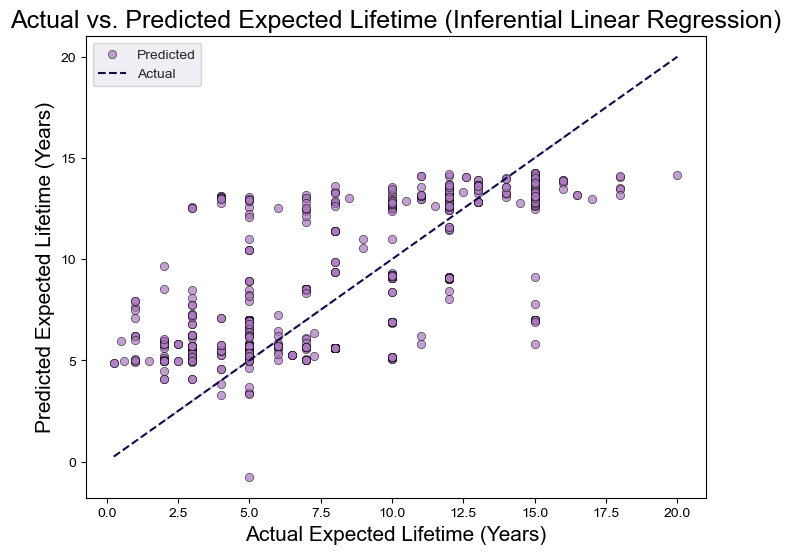
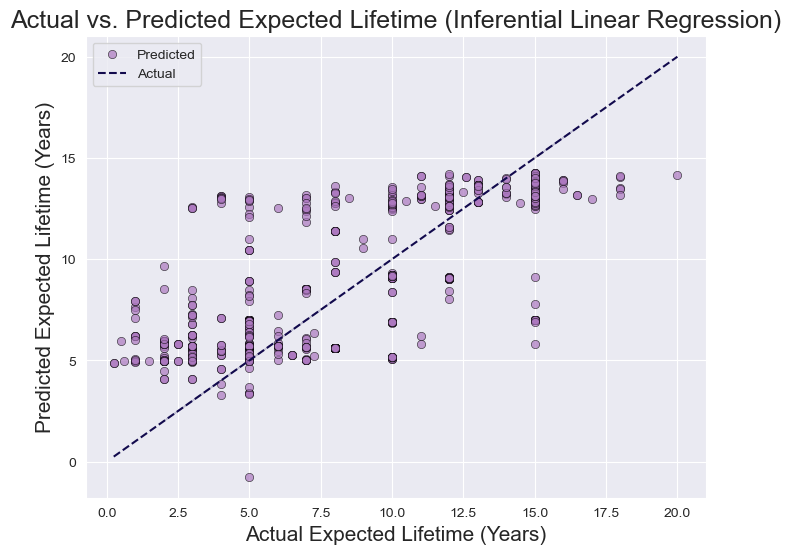
added new functions and updated all docstrings to be more concise

diff --git a/src/final.py b/src/final.py
@@ -3,22 +3,43 @@ from sklearn.preprocessing import StandardScaler
 import statsmodels.api as sm
 import seaborn as sns
 import matplotlib.pyplot as plt
+from scipy.stats import f_oneway
+from statsmodels.stats.multicomp import MultiComparison
+
 
 sat_df = pd.read_csv('/Users/joshy/Desktop/dai/daimil5/projects/final/'
                      'active_satellites/data/database.csv')
 
 
 def drop_na(sat_df):
-    ''' Function takes in a dataframe
-        Returns a dataframe that drops duplicates for relevant columns '''
+    """
+    Drop rows with missing values in specific columns from a DataFrame.
+
+    Parameters:
+    - sat_df (DataFrame): Input DataFrame containing satellite data.
+
+    Returns:
+    - cleaned_df (DataFrame): DataFrame with rows containing missing values
+      removed.
+    """
     sat_df.dropna(subset=["Expected Lifetime (Years)",
                           "Launch Mass (Kilograms)"], inplace=True)
     return sat_df
 
 
 def remove_extra_letters(col):
-    ''' Function takes in a df column
-        Function returns the string with extra letters removed '''
+    """
+    Remove extra letters and symbols from a DataFrame column containing
+      time-related values.
+
+    Parameters:
+    - col (Series): A pandas Series representing the column with time-related
+      values.
+
+    Returns:
+    - cleaned_col (Series): A pandas Series with extra letters and symbols
+      removed.
+    """
     return col.replace(' yr.', '') \
               .replace(' hrs.', '') \
               .replace(' trs', '') \
@@ -27,8 +48,18 @@ def remove_extra_letters(col):
 
 
 def convert_range_to_mean(col):
-    ''' Function takes in a df column
-        Function returns the string with extra letters removed '''
+    """
+    Convert a range-formatted value or single value in the DataFrame column to
+      its mean value.
+
+    Parameters:
+    - col (Series): A pandas Series representing the column with
+      range-formatted or single values.
+
+    Returns:
+    - mean_value (float): The mean value derived from the range or single
+      value.
+    """
     if '-' in col:
         low, high = col.split('-')
         return (float(low) + float(high)) / 2
@@ -36,8 +67,18 @@ def convert_range_to_mean(col):
 
 
 def process_expected_lifetime_column(df):
-    ''' Function takes in a dataframe
-        Function returns a dataframe that has been cleaned'''
+    """
+    Process the 'Expected Lifetime (Years)' column in the DataFrame by
+      removing extra letters and converting ranges to means.
+
+    Parameters:
+    - df (DataFrame): Input DataFrame with the 'Expected Lifetime (Years)'
+      column.
+
+    Returns:
+    - df (DataFrame): DataFrame with the 'Expected Lifetime (Years)' column
+      cleaned and processed.
+    """
     df['Expected Lifetime (Years)'] = df['Expected Lifetime (Years)'] \
         .apply(remove_extra_letters)
     df['Expected Lifetime (Years)'] = df['Expected Lifetime (Years)'] \
@@ -46,27 +87,63 @@ def process_expected_lifetime_column(df):
 
 
 def make_numeric(sat_df):
-    ''' Function takes in a dataframe
-        Returns a dataframe with the launch mass column as an int '''
+    """
+    Convert the 'Launch Mass (Kilograms)' column in the DataFrame to numeric
+      values.
+
+    Parameters:
+    - sat_df (DataFrame): Input DataFrame with the 'Launch Mass (Kilograms)'
+      column.
+
+    Returns:
+    - sat_df (DataFrame): DataFrame with the 'Launch Mass (Kilograms)' column
+      converted to numeric values.
+    """
     pd.to_numeric(sat_df["Launch Mass (Kilograms)"],
                   errors='coerce')
     return sat_df
 
 
 def remove_space(col):
-    ''' Function takes in a col
-        Returns a col with the space removed '''
+    """
+    Remove spaces from the given column values and return the cleaned column.
+
+    Parameters:
+    - col (Series): Input column with values containing spaces.
+
+    Returns:
+    - cleaned_col (Series): Column with spaces removed from its values.
+    """
     return col.replace('LEO ', 'LEO')
 
 
 def get_dummies(sat_df):
-    ''' Function takes in a dataframe
-        Returns a dataframe with dummies'''
-    orbit_df = pd.get_dummies(sat_df, columns=["Class of Orbit"])
-    return orbit_df
+    """
+    Create dummy variables for categorical column and return the updated
+      DataFrame.
+
+    Parameters:
+    - sat_df (DataFrame): Input DataFrame containing categorical column.
+
+    Returns:
+    - updated_df (DataFrame): DataFrame with dummy variables created for the
+      specified column.
+    """
+    sat_df_df = pd.get_dummies(sat_df, columns=["Class of Orbit"])
+    return sat_df_df
 
 
 def make_reg(X, y):
+    """
+    Create and return a linear regression model.
+
+    Parameters:
+    - X (array-like): Features (independent variables) for the regression.
+    - y (array-like): Target variable (dependent variable) for the regression.
+
+    Returns:
+    - model (StatsModels OLS): Fitted linear regression model.
+    """
     scaler = StandardScaler()
     X_scaled = scaler.fit_transform(X)
 
@@ -77,6 +154,19 @@ def make_reg(X, y):
 
 
 def plot_actual_vs_predicted(y_true, y_predicted, save_file=None):
+    """
+    Plot the actual versus predicted expected lifetime using a scatterplot.
+
+    Parameters:
+    - y_true (array-like): Array of true values (actual expected lifetimes).
+    - y_predicted (array-like): Array of predicted values (predicted expected
+      lifetimes).
+    - save_file (str, optional): File path to save the plot. If not provided,
+      the plot will be displayed.
+
+    Returns:
+    Plot or file if specified
+    """
     fig, ax = plt.subplots(figsize=(8, 6))
     sns.set_style("darkgrid")
     sns.scatterplot(x=y_true,
@@ -103,12 +193,79 @@ def plot_actual_vs_predicted(y_true, y_predicted, save_file=None):
         plt.show()
 
 
+def create_boxplot(sat_df, save_file=None):
+    """
+    Create a box plot to visualize the distribution of expected lifetimes
+    among different satellite orbits.
+
+    Parameters:
+    - sat_df (DataFrame): The DataFrame containing satellite data.
+    - save_file (str, optional): File path to save the plot. If not provided,
+        the plot will be displayed.
+
+    Returns:
+    - Plot or file if specified
+    """
+    sns.set_style("darkgrid")
+    sat_df.groupby('Class of Orbit')['Expected Lifetime (Years)'].mean()
+    fig, ax = plt.subplots(figsize=(8, 6))
+    sns.boxplot(x='Class of Orbit',
+                y='Expected Lifetime (Years)',
+                data=sat_df,
+                palette='Blues_r')
+    ax.set_xlabel('Class of Orbit',
+                  fontsize=15)
+    ax.set_ylabel('Average Lifetime (Years)',
+                  fontsize=15)
+    ax.set_title('Average Lifetime of Satellites vs. sat_df',
+                 fontsize=18)
+    if save_file:
+        plt.savefig(save_file, bbox_inches='tight')
+    else:
+        plt.show()
+
+
+def perform_anova_and_posthoc(sat_df, orbit_df, alpha=0.05):
+    """
+    Perform ANOVA and post hoc analysis on satellite data.
+
+    Parameters:
+    - sat_df (DataFrame): The entire satellite data DataFrame.
+    - subset_df (DataFrame): Subset of the satellite data for the analysis.
+    - alpha (float): Significance level for post hoc analysis.
+
+    Returns:
+    - anova_statistic (float): The ANOVA test statistic.
+    - p_value (float): The p-value from the ANOVA test.
+    - posthoc_results (MultiComparison): Results of the post hoc Tukey's HSD.
+    """
+    anova_result = f_oneway(
+        orbit_df[orbit_df['Class of Orbit_GEO'] == 1]
+        ['Expected Lifetime (Years)'],
+        orbit_df[orbit_df['Class of Orbit_LEO'] == 1]
+        ['Expected Lifetime (Years)'],
+        orbit_df[orbit_df['Class of Orbit_MEO'] == 1]
+        ['Expected Lifetime (Years)'],
+        orbit_df[orbit_df['Class of Orbit_Elliptical'] == 1]
+        ['Expected Lifetime (Years)']
+    )
+    p_value = anova_result.pvalue
+
+    multi_comp = MultiComparison(orbit_df['Expected Lifetime (Years)'], 
+                                 sat_df['Class of Orbit'])
+    posthoc_results = multi_comp.tukeyhsd(alpha=alpha)
+    return anova_result.statistic, p_value, posthoc_results
+
+
 if __name__ == '__main__':
-    (drop_na(sat_df))
-    (process_expected_lifetime_column(sat_df))
-    (make_numeric(sat_df))
-    (sat_df.apply(remove_space))
-    (get_dummies(sat_df))
+    sat_df = drop_na(sat_df)
+    sat_df['Class of Orbit'] = sat_df['Class of Orbit'].apply(remove_space)
+    sat_df = process_expected_lifetime_column(sat_df)
+    sat_df = make_numeric(sat_df)
+    create_boxplot(sat_df, save_file='/Users/joshy/Desktop/dai/daimil5/'
+                   'projects/final/active_satellites/img/'
+                   'boxplot.png')
+    orbit_df = get_dummies(sat_df)
     (make_reg(sat_df[['Perigee (Kilometers)',
                       'Apogee (Kilometers)',
                       'Launch Mass (Kilograms)',
@@ -124,3 +281,4 @@ if __name__ == '__main__':
                              save_file='/Users/joshy/Desktop/dai/daimil5/'
                              'projects/final/active_satellites/img/'
                              'actual_vs_predict.png')
+    perform_anova_and_posthoc(sat_df, orbit_df)
